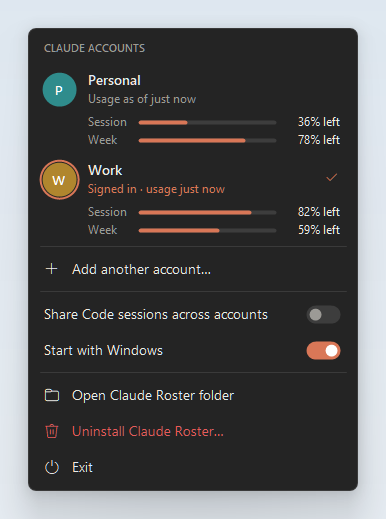
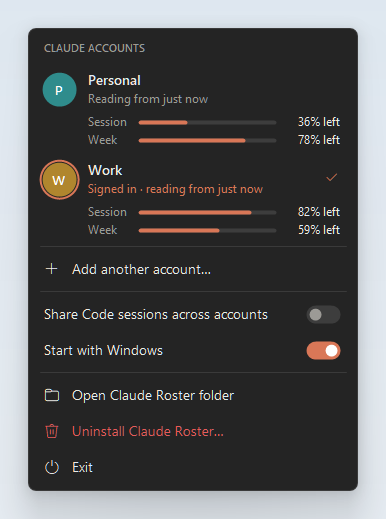
Show when each usage reading was taken and grey out old ones
Claude only records a plan usage reading now and then (when it starts, for
one), not when its own usage page is opened, so the panel could show figures
well behind Claude's. Readings now say when Claude took them ("reading from
15:54, 36 min ago"); ones older than 5 minutes are greyed out in the panel,
carry their age on the title bar button ("93% · 36m"), and are flagged in
the CLI's list. Roster stays local-only.

Changed region(s): [[0.3731, 0.3391, 0.6839, 0.4008], [0.2176, 0.185, 0.5285, 0.2158]]

diff --git a/src/ClaudeRoster/AccountPanel.cs b/src/ClaudeRoster/AccountPanel.cs
@@ -11,10 +11,11 @@ internal sealed record PanelHeader(string Text, bool IsNote = false) : PanelItem
 
 internal sealed record PanelSeparator : PanelItem;
 
-/// <param name="Detail">The line under the name, e.g. "Signed in · updated 2 min ago".</param>
+/// <param name="Detail">The line under the name, e.g. "Signed in · reading from 15:54, 36 min ago".</param>
 /// <param name="SessionLeft">Percent of the 5-hour limit left, when known.</param>
 /// <param name="WeeklyLeft">Percent of the 7-day limit left, when known.</param>
 /// <param name="More">Rename / remove and the like, shown behind a ⋯ button.</param>
+/// <param name="UsageStale">The usage is an old reading that may be behind, so its meters are greyed out.</param>
 internal sealed record PanelAccount(
     string Name,
     string Detail,
@@ -23,7 +24,8 @@ internal sealed record PanelAccount(
     bool Active,
     bool Enabled,
     Action OnClick,
-    IReadOnlyList<PanelItem> More) : PanelItem;
+    IReadOnlyList<PanelItem> More,
+    bool UsageStale = false) : PanelItem;
 
 internal sealed record PanelAction(string Glyph, string Text, bool Enabled, Action OnClick, bool Danger = false) : PanelItem;
 
@@ -424,27 +426,31 @@ internal sealed class AccountPanel : Form
                 continue;
             }
 
-            PaintMeter(graphics, label, left100.Value, Rectangle.FromLTRB(left, line, bounds.Right - Px(12), line + Px(16)));
+            PaintMeter(graphics, label, left100.Value, account.UsageStale, Rectangle.FromLTRB(left, line, bounds.Right - Px(12), line + Px(16)));
             line += Px(18);
         }
     }
 
-    /// <summary>"Session ▬▬▬▬▬▬▭▭ 93% left": what's left of a limit, coloured as it runs low.</summary>
-    private void PaintMeter(Graphics graphics, string label, int left, Rectangle bounds)
+    /// <summary>
+    /// "Session ▬▬▬▬▬▬▭▭ 93% left": what's left of a limit, coloured as it runs low. An old reading is greyed out, so
+    /// it doesn't pass for the live figure.
+    /// </summary>
+    private void PaintMeter(Graphics graphics, string label, int left, bool stale, Rectangle bounds)
     {
         var fonts = _fonts!;
         var labelWidth = Px(50);
         var valueWidth = Px(58);
-        DrawText(graphics, label, fonts.Small, new Rectangle(bounds.Left, bounds.Top, labelWidth, bounds.Height), _palette.Dim);
+        DrawText(graphics, label, fonts.Small, new Rectangle(bounds.Left, bounds.Top, labelWidth, bounds.Height), stale ? _palette.Disabled : _palette.Dim);
         DrawText(graphics, $"{left}% left", fonts.Small,
-            new Rectangle(bounds.Right - valueWidth, bounds.Top, valueWidth, bounds.Height), _palette.Text, TextFormatFlags.Right);
+            new Rectangle(bounds.Right - valueWidth, bounds.Top, valueWidth, bounds.Height), stale ? _palette.Dim : _palette.Text, TextFormatFlags.Right);
 
         var track = Rectangle.FromLTRB(bounds.Left + labelWidth, bounds.Top + bounds.Height / 2 - Px(2), bounds.Right - valueWidth - Px(6), bounds.Top + bounds.Height / 2 + Px(2));
         FillRound(graphics, track, track.Height / 2, _palette.Track);
         if (left > 0)
         {
             var filled = track with { Width = Math.Max(track.Height, track.Width * left / 100) };
-            FillRound(graphics, filled, track.Height / 2, left > 25 ? _palette.Accent : left > 10 ? _palette.Warning : _palette.Danger);
+            var color = stale ? _palette.Disabled : left > 25 ? _palette.Accent : left > 10 ? _palette.Warning : _palette.Danger;
+            FillRound(graphics, filled, track.Height / 2, color);
         }
     }
 

diff --git a/src/ClaudeRoster/TrayContext.cs b/src/ClaudeRoster/TrayContext.cs
@@ -464,11 +464,19 @@ internal sealed class TrayContext : ApplicationContext
         var now = DateTimeOffset.UtcNow;
         var sample = status?.Profile is { } signedIn && SafeUsage().TryGetValue(signedIn.Id, out var found) ? found : null;
         var left = sample?.SessionLeft(now);
+        var stale = sample?.IsStale(now) == true;
         return status switch
         {
             null or { IsUnidentified: true } => new(AppName, null, "Switch Claude account (Claude Roster)"),
-            { Profile: { } profile } => new(profile.Alias, left is null ? null : $"{left}%",
-                sample is { HasLimits: true } ? $"{profile.Alias}: {sample.Summary(now)}" : $"Signed in as {profile.Alias}"),
+            // An old reading carries its age ("93% · 36m") so it can't pass for the live figure.
+            { Profile: { } profile } => new(
+                profile.Alias,
+                left is null ? null : stale ? $"{left}% · {sample!.ShortAge(now)}" : $"{left}%",
+                sample is { HasLimits: true }
+                    ? $"{profile.Alias}: {sample.Summary(now)}\nClaude's reading from {sample.Taken(now)}" +
+                      (stale ? ". Claude's usage page may show more." : "")
+                    : $"Signed in as {profile.Alias}",
+                stale),
             { AccountUuid: not null } => new("Account not saved", null, "Open to save the account signed in to Claude"),
             _ => new("Signed out", null, "Claude is signed out"),
         };
@@ -536,11 +544,14 @@ internal sealed class TrayContext : ApplicationContext
 
         var usage = SafeUsage();
         var now = DateTimeOffset.UtcNow;
+        var anyStale = false;
         foreach (var profile in profiles)
         {
             var active = status?.Profile?.Id == profile.Id;
             var ready = active || _switcher.HasSavedSignIn(profile);
             usage.TryGetValue(profile.Id, out var sample);
+            var stale = sample is { HasLimits: true } && sample.IsStale(now);
+            anyStale |= stale;
             var more = new List<PanelItem>
             {
                 new PanelAction(Glyphs.Rename, "Rename…", !_busy, () => Rename(profile)),
@@ -554,7 +565,14 @@ internal sealed class TrayContext : ApplicationContext
                 active,
                 Enabled: !_busy && ready && !active,
                 async () => await SwitchToAsync(profile),
-                more));
+                more,
+                stale));
+        }
+
+        if (anyStale)
+        {
+            // Claude only records a reading now and then; its own usage page has the live figures.
+            items.Add(new PanelHeader("Grey figures are old readings from Claude", IsNote: true));
         }
 
         items.Add(new PanelSeparator());
@@ -586,11 +604,11 @@ internal sealed class TrayContext : ApplicationContext
 
     private static string AccountDetail(bool active, bool ready, UsageSample? sample, DateTimeOffset now) => (active, sample) switch
     {
-        (true, { HasLimits: true }) => $"Signed in · usage {sample.Age(now)}",
+        (true, { HasLimits: true }) => $"Signed in · reading from {sample.Taken(now)}",
         (true, not null) => "Signed in · no usage limits reported",
         (true, null) => "Signed in",
         _ when !ready => "Sign-in not saved yet",
-        (false, { HasLimits: true }) => $"Usage as of {sample.Age(now)}",
+        (false, { HasLimits: true }) => $"Reading from {sample.Taken(now)}",
         (false, not null) => $"No usage limits reported · {sample.Age(now)}",
         _ => "No usage recorded yet",
     };

diff --git a/src/ClaudeRoster.Core/PlanUsage.cs b/src/ClaudeRoster.Core/PlanUsage.cs
@@ -1,3 +1,4 @@
+using System.Globalization;
 using System.Text.Json;
 using System.Text.Json.Nodes;
 
@@ -11,7 +12,32 @@ public sealed record UsageSample(DateTimeOffset At, int? SessionUsed, int? Weekl
     public static readonly TimeSpan SessionWindow = TimeSpan.FromHours(5);
     public static readonly TimeSpan WeeklyWindow = TimeSpan.FromDays(7);
 
+    /// <summary>
+    /// Claude only records a reading now and then (when it starts, for one), so anything older than this may be well
+    /// behind what Claude's own usage page shows.
+    /// </summary>
+    public static readonly TimeSpan FreshFor = TimeSpan.FromMinutes(5);
+
     public bool HasLimits => SessionUsed is not null || WeeklyUsed is not null;
+
+    public bool IsStale(DateTimeOffset now) => now - At > FreshFor;
+
+    /// <summary>When Claude took the reading: "just now", "15:54, 36 min ago", "Mon 15:54, 2 days ago", "Oct 20, 9 days ago".</summary>
+    public string Taken(DateTimeOffset now, TimeZoneInfo? zone = null)
+    {
+        if (now - At < TimeSpan.FromMinutes(1))
+        {
+            return "just now";
+        }
+
+        zone ??= TimeZoneInfo.Local;
+        var local = TimeZoneInfo.ConvertTime(At, zone);
+        var today = TimeZoneInfo.ConvertTime(now, zone).Date;
+        // The rest of the UI is English, so day and month names are too.
+        var format = local.Date == today ? "HH:mm" : today - local.Date < TimeSpan.FromDays(7) ? "ddd HH:mm" : "MMM d";
+        var clock = local.ToString(format, CultureInfo.InvariantCulture);
+        return $"{clock}, {Age(now)}";
+    }
 
     /// <summary>Percent left now. A reading older than its window has reset since, so it's all left.</summary>
     public int? SessionLeft(DateTimeOffset now) => Left(SessionUsed, now - At >= SessionWindow);
@@ -35,6 +61,15 @@ public sealed record UsageSample(DateTimeOffset At, int? SessionUsed, int? Weekl
             : age.TotalDays < 1 ? $"{(int)age.TotalHours} h ago"
             : (int)age.TotalDays == 1 ? "1 day ago"
             : $"{(int)age.TotalDays} days ago";
+    }
+
+    /// <summary>"36m", "2h", "3d": the age for tight spots like the title bar button.</summary>
+    public string ShortAge(DateTimeOffset now)
+    {
+        var age = now - At;
+        return age.TotalHours < 1 ? $"{Math.Max(1, (int)age.TotalMinutes)}m"
+            : age.TotalDays < 1 ? $"{(int)age.TotalHours}h"
+            : $"{(int)age.TotalDays}d";
     }
 
     private static int? Left(int? used, bool reset) => used is null ? null : reset ? 100 : Math.Clamp(100 - used.Value, 0, 100);

diff --git a/src/ClaudeRoster/TitleBarButton.cs b/src/ClaudeRoster/TitleBarButton.cs
@@ -7,7 +7,8 @@ namespace ClaudeRoster;
 
 /// <param name="Detail">Shown dimmer after the name, e.g. the session usage left.</param>
 /// <param name="Tip">The tooltip, e.g. the full usage summary.</param>
-internal sealed record TitleBarLabel(string Text, string? Detail, string Tip);
+/// <param name="DetailStale">The detail is an old reading, so it's drawn fainter.</param>
+internal sealed record TitleBarLabel(string Text, string? Detail, string Tip, bool DetailStale = false);
 
 /// <summary>
 /// The account button pinned to the top left of Claude's window, beside its back and forward arrows. It follows the
@@ -187,7 +188,7 @@ internal sealed class TitleBarButton : Form
             // The detail (usage left) always shows; the name gives way to it when space runs out.
             var detailWidth = Math.Min(TextRenderer.MeasureText(detail, _textFont, Size.Empty, line).Width, text.Width / 2);
             var detailBounds = Rectangle.FromLTRB(text.Right - detailWidth, 0, text.Right, Height);
-            TextRenderer.DrawText(graphics, detail, _textFont, detailBounds, palette.Dim, line | TextFormatFlags.Right);
+            TextRenderer.DrawText(graphics, detail, _textFont, detailBounds, _text.DetailStale ? palette.Faint : palette.Dim, line | TextFormatFlags.Right);
             text = Rectangle.FromLTRB(text.Left, 0, detailBounds.Left - Px(Gap96), Height);
         }
 
@@ -477,15 +478,15 @@ internal sealed class TitleBarButton : Form
     }
 
     /// <summary>Matched to Claude's title bar (#111 behind 28 px buttons with a #494949 edge).</summary>
-    private sealed record Palette(Color Back, Color Hover, Color Border, Color Text, Color Dim)
+    private sealed record Palette(Color Back, Color Hover, Color Border, Color Text, Color Dim, Color Faint)
     {
         public static readonly Palette Dark = new(
             Color.FromArgb(0x1C, 0x1C, 0x1C), Color.FromArgb(0x34, 0x34, 0x34), Color.FromArgb(0x3A, 0x3A, 0x3A),
-            Color.FromArgb(0xCC, 0xC9, 0xC9), Color.FromArgb(0x8A, 0x88, 0x86));
+            Color.FromArgb(0xCC, 0xC9, 0xC9), Color.FromArgb(0x8A, 0x88, 0x86), Color.FromArgb(0x62, 0x61, 0x5F));
 
         public static readonly Palette Light = new(
             Color.FromArgb(0xF7, 0xF6, 0xF2), Color.FromArgb(0xEA, 0xE8, 0xE1), Color.FromArgb(0xDA, 0xD8, 0xD0),
-            Color.FromArgb(0x3D, 0x3D, 0x3A), Color.FromArgb(0x7A, 0x78, 0x72));
+            Color.FromArgb(0x3D, 0x3D, 0x3A), Color.FromArgb(0x7A, 0x78, 0x72), Color.FromArgb(0xA8, 0xA6, 0xA0));
     }
 
     private const int WmDpiChanged = 0x02E0;

diff --git a/tests/ClaudeRoster.Tests/PlanUsageTests.cs b/tests/ClaudeRoster.Tests/PlanUsageTests.cs
@@ -57,6 +57,22 @@ public sealed class PlanUsageTests
         Assert.Null(new UsageSample(Start, null, null).SessionLeft(Start));
     }
 
+    [Fact]
+    public void Readings_say_when_they_were_taken_and_go_stale_after_a_few_minutes()
+    {
+        var sample = new UsageSample(Start, 7, 53);
+
+        Assert.False(sample.IsStale(Start.AddMinutes(5)));
+        Assert.True(sample.IsStale(Start.AddMinutes(6)));
+        Assert.Equal("just now", sample.Taken(Start.AddSeconds(30), TimeZoneInfo.Utc));
+        Assert.Equal("08:00, 36 min ago", sample.Taken(Start.AddMinutes(36), TimeZoneInfo.Utc));
+        Assert.Equal("Tue 08:00, 2 days ago", sample.Taken(Start.AddDays(2), TimeZoneInfo.Utc));
+        Assert.Equal("Oct 27, 9 days ago", sample.Taken(Start.AddDays(9), TimeZoneInfo.Utc));
+        Assert.Equal("36m", sample.ShortAge(Start.AddMinutes(36)));
+        Assert.Equal("3h", sample.ShortAge(Start.AddHours(3.5)));
+        Assert.Equal("2d", sample.ShortAge(Start.AddDays(2)));
+    }
+
     private static AccountProfile Profile(string account, DateTimeOffset lastUsed) => new()
     {
         Id = Guid.NewGuid().ToString("N"),

diff --git a/src/ClaudeRoster.Cli/Program.cs b/src/ClaudeRoster.Cli/Program.cs
@@ -133,7 +133,8 @@ void PrintList()
         Console.WriteLine($"{marker} {profile.Alias,-24} {Mask(profile.AccountUuid)}{saved}");
         if (usage.TryGetValue(profile.Id, out var sample))
         {
-            Console.WriteLine($"  {"",-24} {sample.Summary(now)} ({sample.Age(now)})");
+            var old = sample.HasLimits && sample.IsStale(now) ? ", may be behind Claude's usage page" : "";
+            Console.WriteLine($"  {"",-24} {sample.Summary(now)} (reading from {sample.Taken(now)}{old})");
         }
     }
 }

diff --git a/README.md b/README.md
@@ -108,8 +108,10 @@ Click an account and confirm. Claude closes and reopens signed in as that accoun
 Each account in the panel shows two bars: what's left of the **session** (5-hour) limit and of the **weekly** limit. They turn amber below 25% and red below 10%. The account button in Claude shows the session figure, and hovering it shows both.
 
 - The numbers come from `plan-usage-history.json`, where Claude records your plan usage. Claude Roster reads that file and makes no network calls.
+- **Claude only records a reading now and then**, for example when it starts. It doesn't record one when you open its own usage page, so these figures can lag behind it.
+- **Every figure says when Claude took it**, e.g. *reading from 15:54, 36 min ago*. Readings older than 5 minutes are greyed out, and the button adds their age (*93% · 36m*). For live numbers, open Claude's own usage page.
 - Claude records readings per organization, not per account, so each account gets the readings taken while it was the one signed in.
-- An account you're not signed in to shows its last reading and how old it is. Once 5 hours (session) or 7 days (weekly) have passed since then, that limit has reset, so it shows as fully available.
+- An account you're not signed in to shows its last reading. Once 5 hours (session) or 7 days (weekly) have passed since then, that limit has reset, so it shows as fully available.
 - Some plans have no limits for Claude to report. Those accounts show **No usage limits reported**.
 
 ### Share Claude Code sessions between accounts (optional)
@@ -241,9 +243,9 @@ Roster data     C:\Users\you\AppData\Roaming\ClaudeRoster
 
 > claude-roster list
   Personal                 22222222…
-                           Session 100% left · Week 78% left (2 days ago)
+                           Session 100% left · Week 78% left (reading from Mon 09:12, 2 days ago, may be behind Claude's usage page)
 * Work                     11111111…
-                           Session 82% left · Week 59% left (4 min ago)
+                           Session 82% left · Week 59% left (reading from 14:30, 2 min ago)
 ```
 
 ## Build from source
@@ -283,7 +285,7 @@ The tests and the screenshot tool run on throwaway data. For manual testing, `CL
 - Claude's sign-in storage isn't a documented interface, so a Claude update can change it. When that happens, expect Claude Roster to refuse to switch rather than corrupt anything; the storage list in `SessionSnapshotter` and `ClaudeConfig` then needs updating.
 - One account is active at a time. It doesn't run two Claude windows side by side.
 - The account button is placed for Claude's current title bar layout, beside the back and forward arrows. If a Claude update moves those, the button may need repositioning (the offsets are at the top of `TitleBarButton.cs`).
-- Usage is only as fresh as Claude's last reading. The file format isn't documented either; if it changes, accounts simply show no usage.
+- Usage is only as fresh as Claude's last reading, which can be well behind Claude's own usage page; old readings are greyed out. The file format isn't documented either; if it changes, accounts simply show no usage.
 - The panel and button follow the Windows app theme. Claude's own appearance setting can't be read from outside.
 - The Microsoft Store install is tested. The classic installer (`%LOCALAPPDATA%\AnthropicClaude`) is supported by path rules but hasn't been tested.
 
